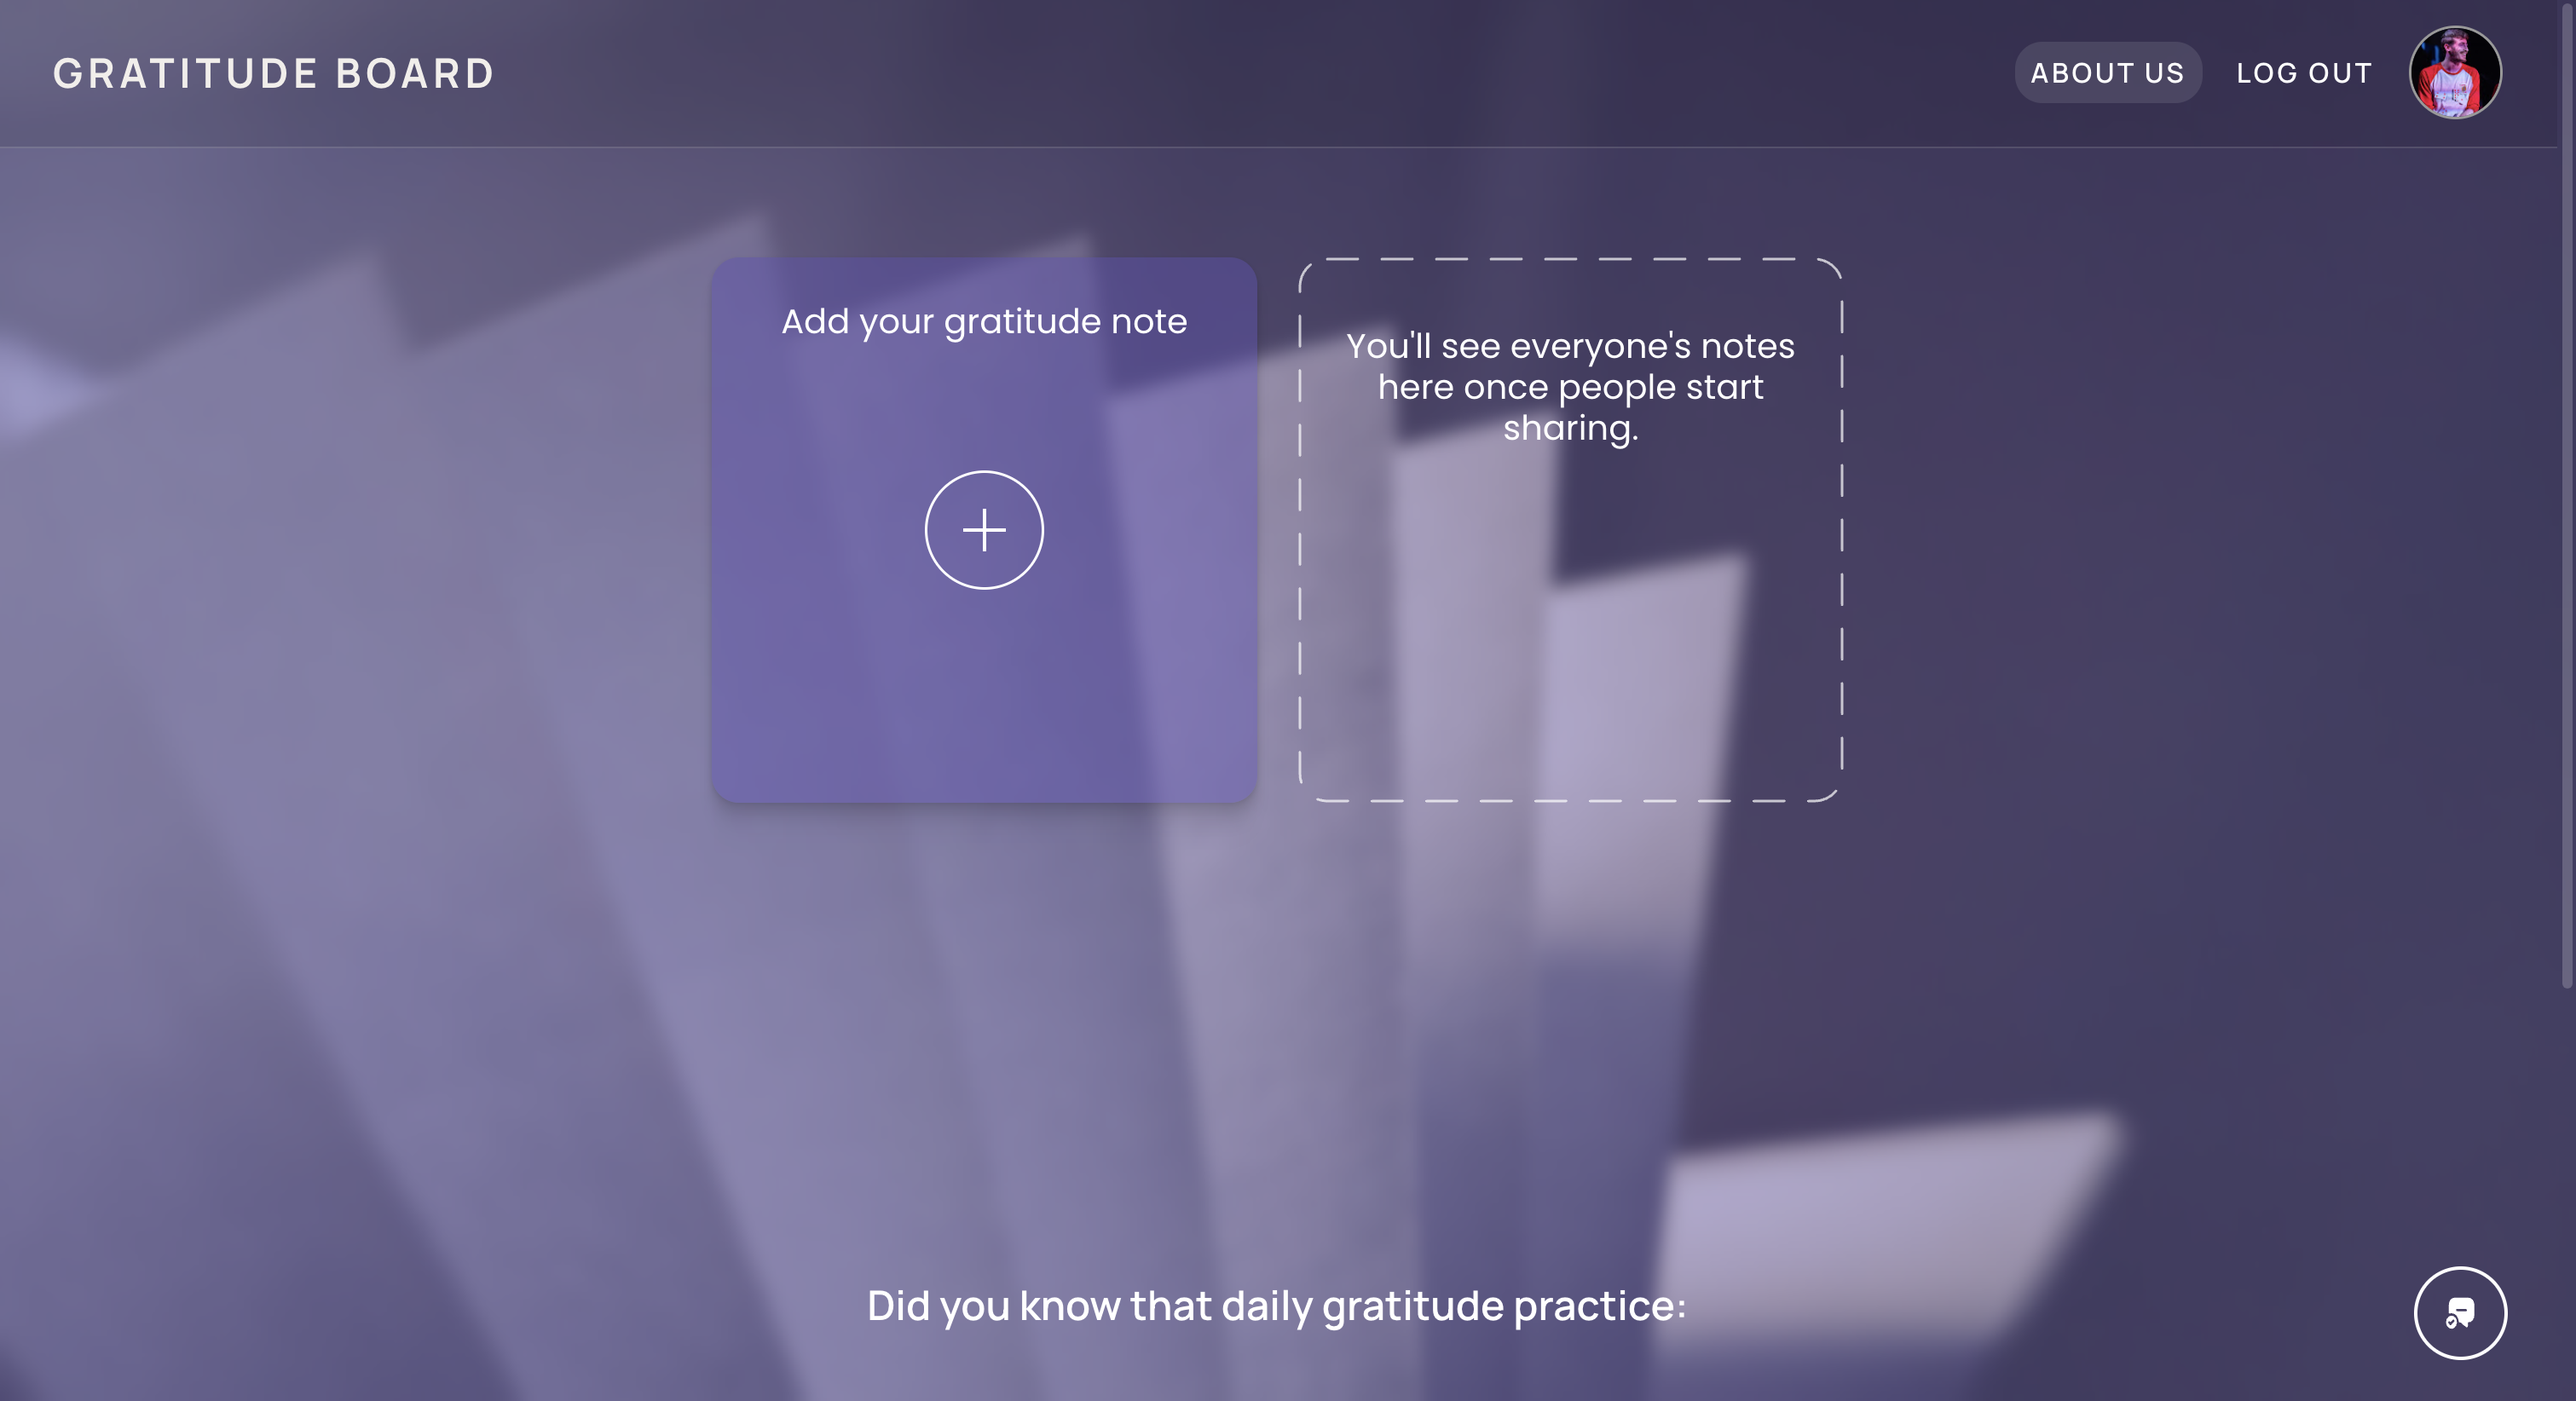
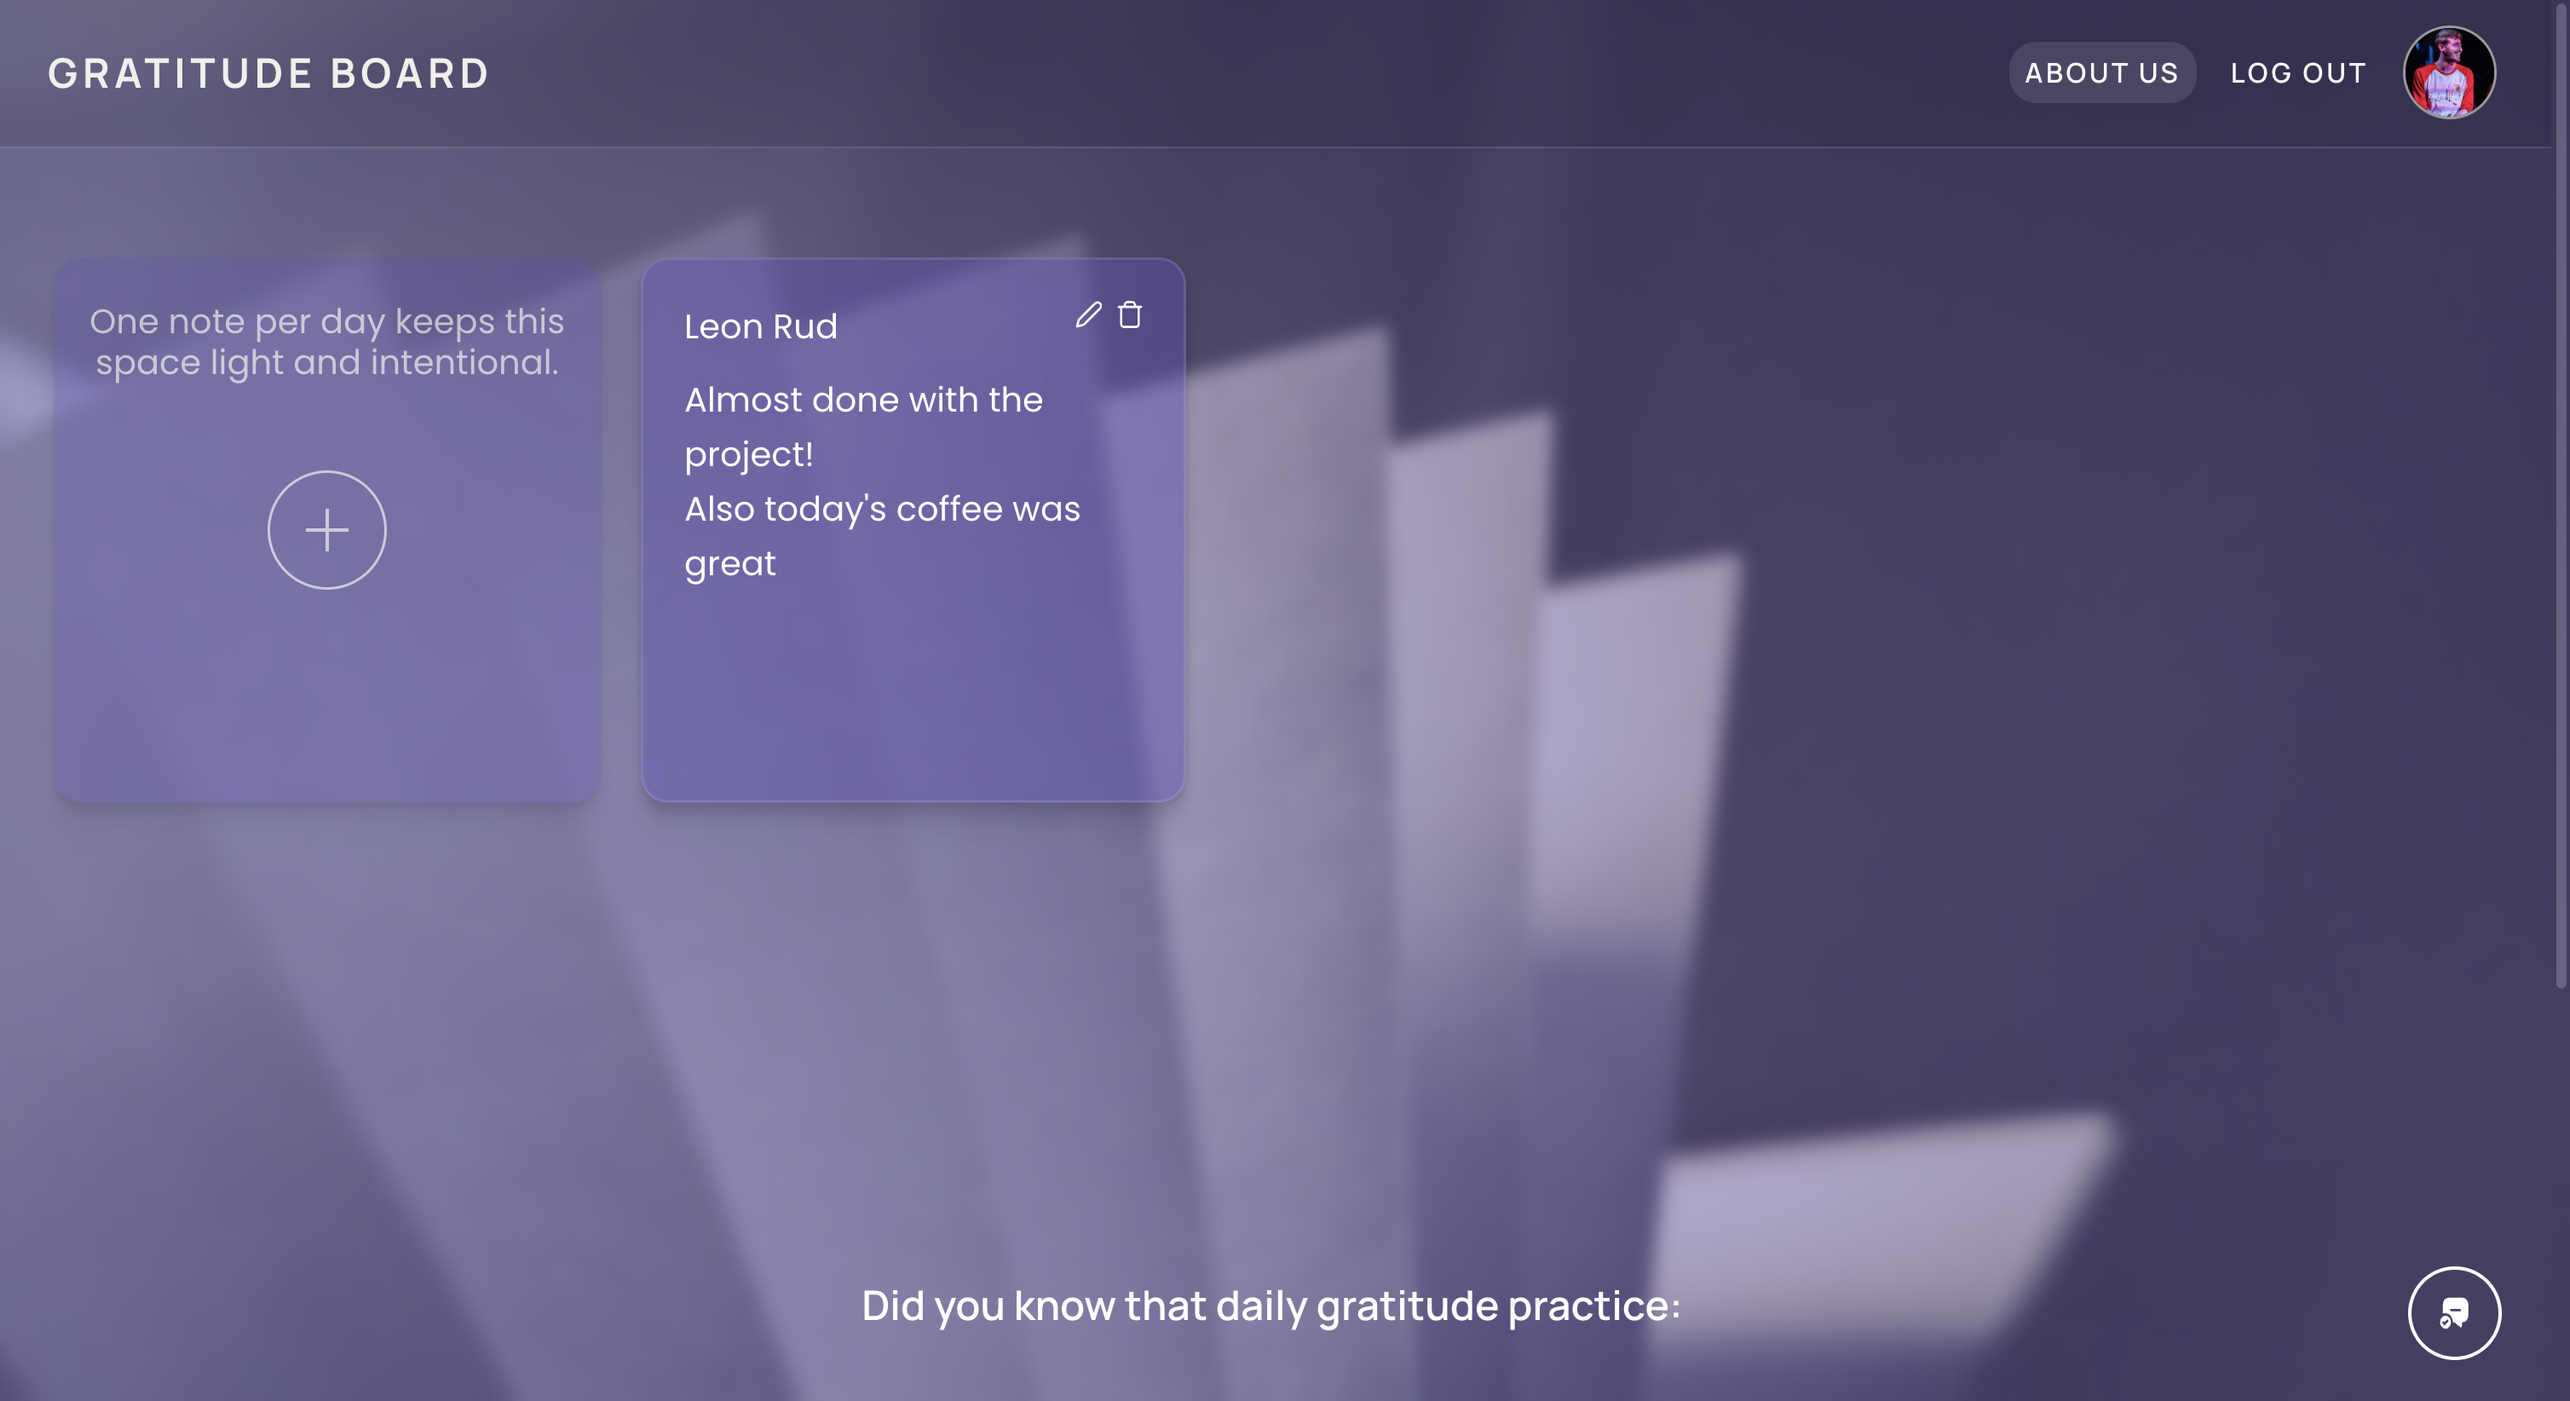
aligned all notes to the left

diff --git a/client/src/pages/GratitudeBoardPage.tsx b/client/src/pages/GratitudeBoardPage.tsx
@@ -119,7 +119,7 @@ export function GratitudeBoardPage({
           )}
 
           {/* Notes Grid */}
-          <div className="grid grid-cols-[repeat(auto-fit,320px)] justify-center gap-[24px]">
+          <div className="grid grid-cols-[repeat(auto-fit,320px)] justify-start gap-[24px]">
             {loading && notes.length === 0 && (
               <>
                 <NoteSkeleton />
